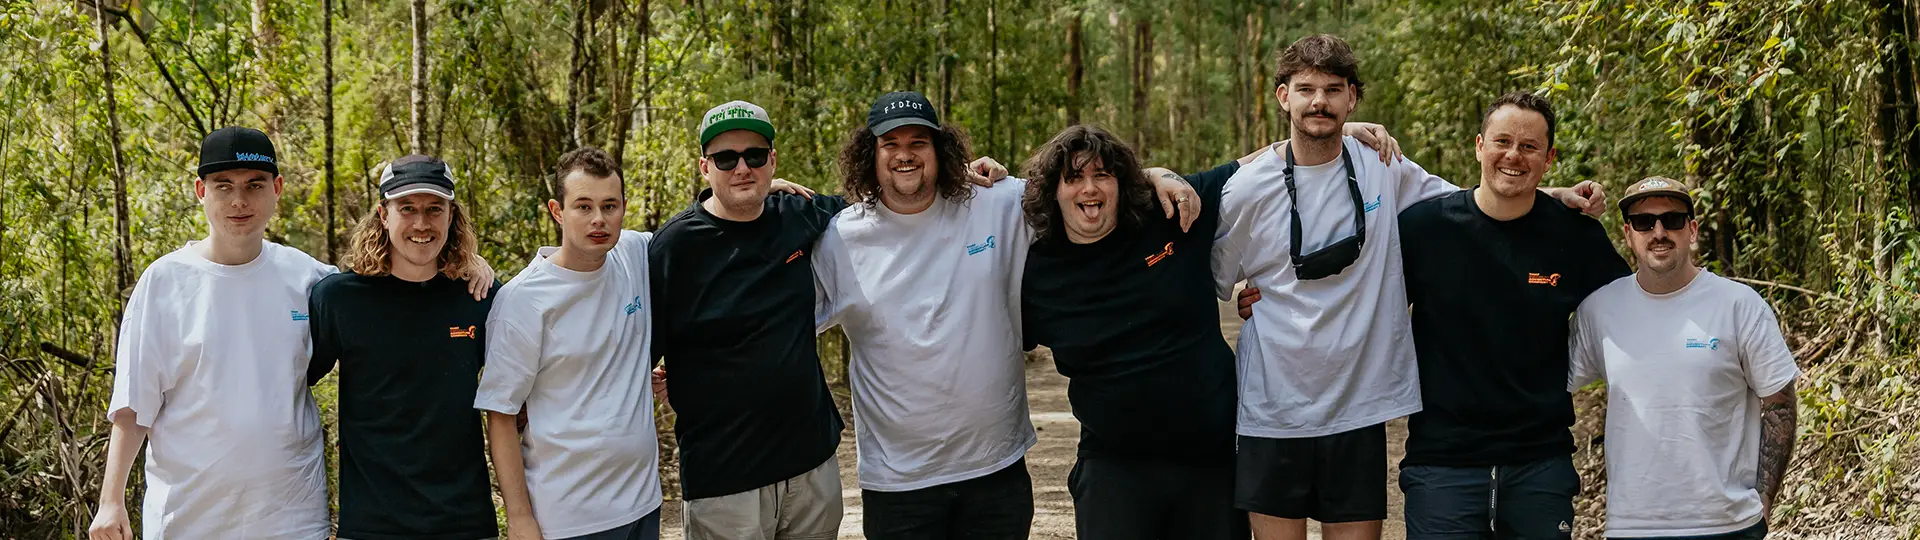
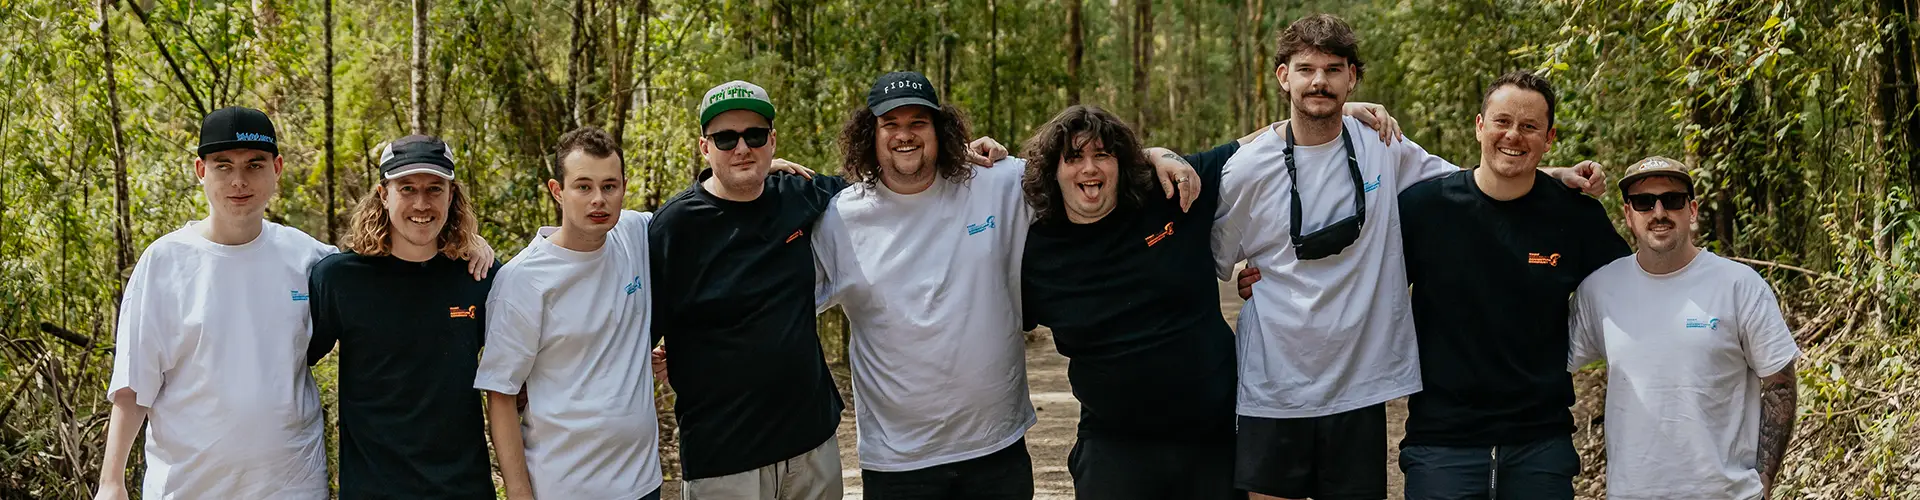
Playing around with new group page

diff --git a/style.css b/style.css
@@ -6,7 +6,7 @@ body {
     font-display: swap;
 }
 h1 {
-    font-family: drukSuper, Tahoma, sans-serif;
+    font-family: gothamBook, Tahoma, sans-serif;
     font-size: 2.5rem;
     margin: 2rem 0;
 }
@@ -343,6 +343,13 @@ main {
     justify-content: space-between;
     height: 100vh;
     background-color: #375b6d;
+}
+.topServiceContent {
+    width: 100%;
+    height: auto;
+    display: flex;
+    flex-wrap: wrap;
+    justify-content: center;
 }
 .topContent {
     width: 90%;
@@ -906,6 +913,7 @@ footer {
 	height: auto;
 	display: block;
 	position: relative;
+    margin-top: 4.6rem;
 }
 .serviceImgContainer img {
 	width: 100%;
@@ -1256,6 +1264,9 @@ footer {
     .progress-container {
         padding-top: 5.6rem;
     }
+    .serviceImgContainer {
+        margin-top: 6rem;
+    }
 }
 @media screen and (min-width: 1024px) {
     .mobileTopImgContainer {
@@ -1351,6 +1362,9 @@ footer {
     #mobileh1 {
         margin-top: 0.5rem;
         margin-bottom: 0.5rem;
+    }
+    .serviceImgContainer {
+        margin-top: 6rem;
     }
     .indexTextSmall {
         width: 100%;

diff --git a/test.php b/test.php
@@ -24,11 +24,13 @@
 			<?php include ('inc/mobileNav.php');?>
 			
 			<!-- Primary Panel -->
-    	<section class="topContentContainer">
+    	<section class="topServiceContent">
     		<section class="serviceImgContainer">
     			<img src="img/titleShots/groupPic.webp" alt="Group Picture at TDAC">
     		</section>
-
+    		<section class="serviceTitle">
+    			<h1>Explore Our Group-Based Activities</h1>
+    		</section>
     	</section>
 
     	<section class="whoAreWeContainer">
